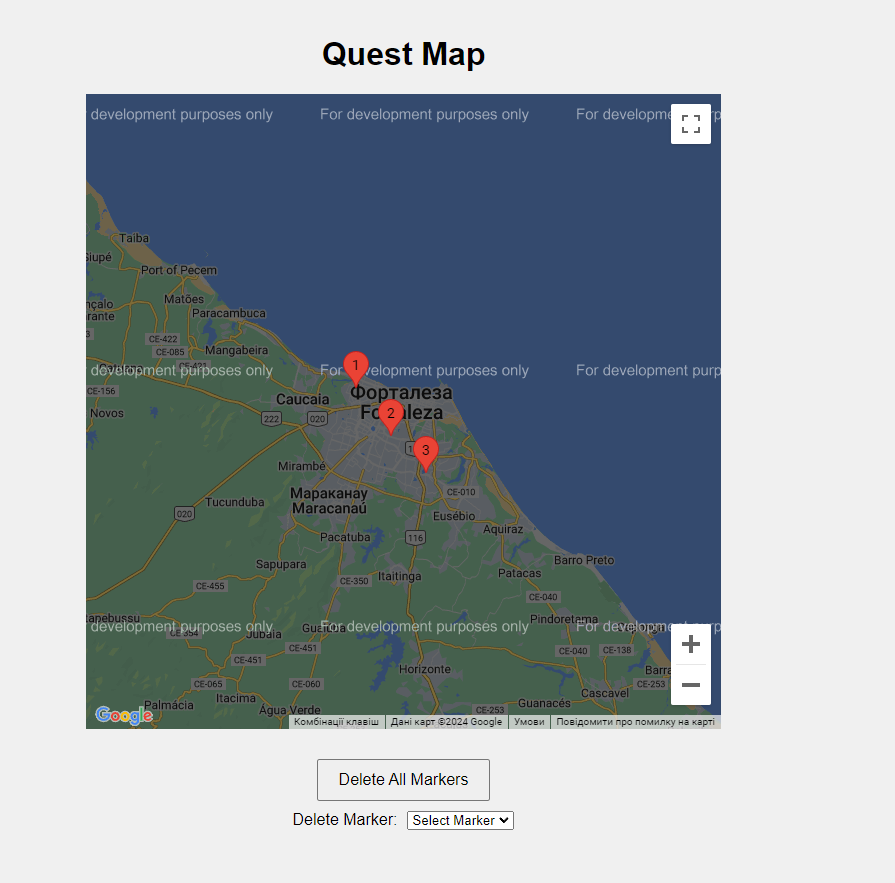
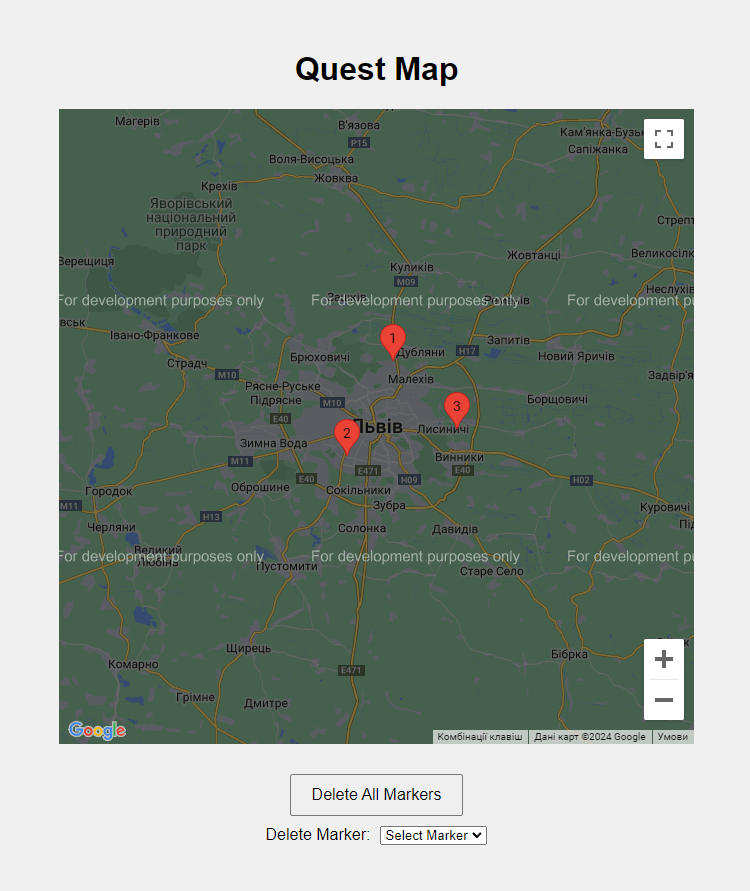
update6

diff --git a/src/components/MapComponent.tsx b/src/components/MapComponent.tsx
@@ -9,8 +9,8 @@ const containerStyle = {
 };
 
 const center = {
-  lat: -3.745,
-  lng: -38.523,
+  lat: 49.8397,
+  lng: 24.0297,
 };
 
 const MapComponent: React.FC = () => {
